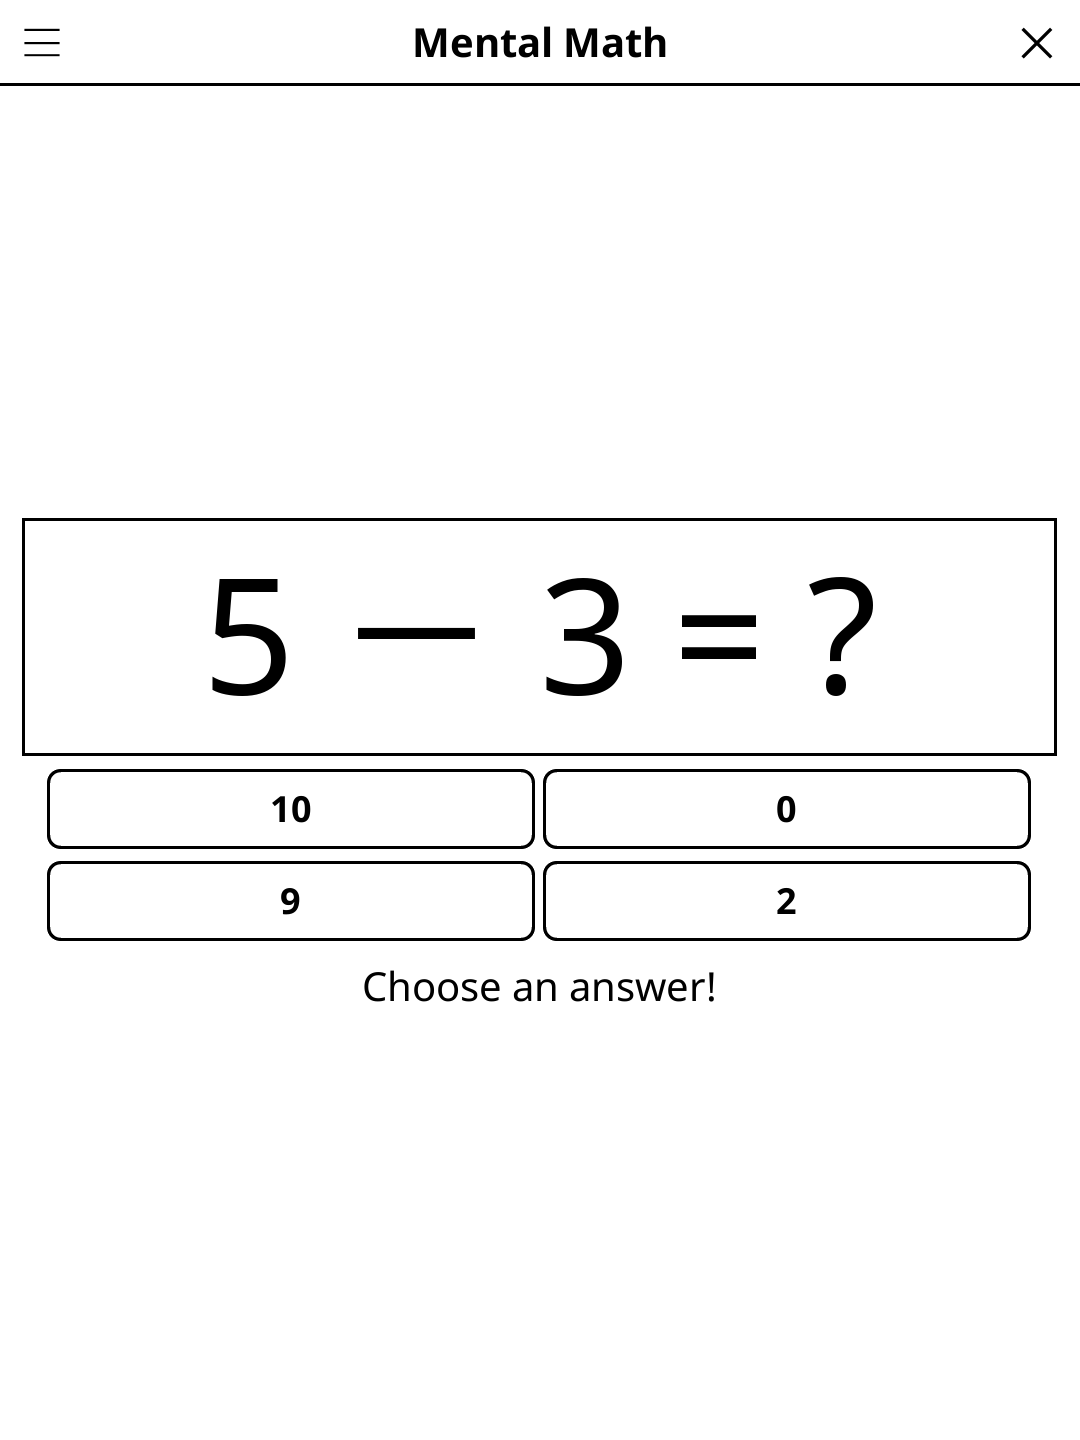
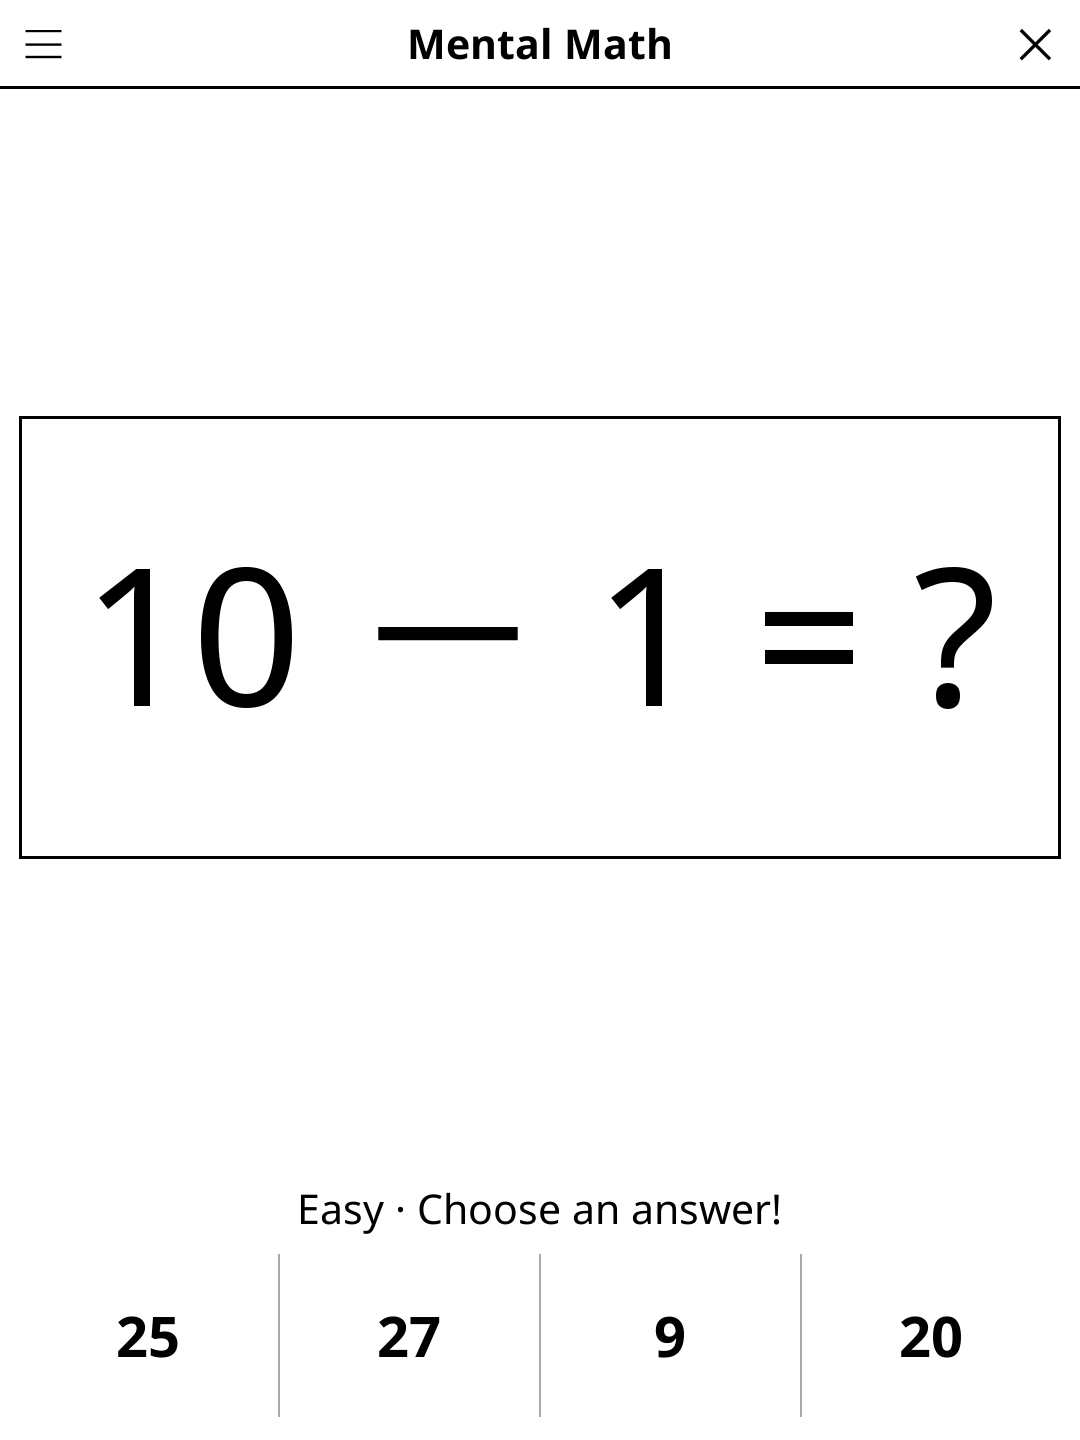
release: 1.2.0 -- redesigned screen, harmonised menu, New game at round end
Screen redesign (full-width action bar, unified pad, status line, larger
board), harmonised title-bar menu, and a "New game" button once the round
is over. See CHANGELOG.md.

diff --git a/CHANGELOG.md b/CHANGELOG.md
@@ -6,6 +6,24 @@ Reconstructed from this repository's git history: each release lists the
 feature and fix commits it carried. Version bumps, screenshot additions
 and CI syncs are left out.
 
+## [1.2.0] - 2026-10-30
+
+### Changed
+- Redesigned play screen, in line with the other games: the question box
+  fills the available room, and the four answers are one full-width pad
+  with large bold numbers that are easy to read and hit. The status line
+  reads "difficulty · Correct: n/m (p%) · Streak: n · ✓" and wraps in
+  landscape instead of being cut off.
+- Title-bar menu in the same order as every other game, with the current
+  value shown: New game (was "New") and "Difficulty: Easy" (was a bare
+  "Easy").
+- New README screenshot.
+
+### Fixed
+- Long questions ran off both sides of the question box, and the question
+  was oversized on high-DPI screens: its size was set in pixels and then
+  scaled again by the screen DPI. It is now fitted to the box and centred.
+
 ## [1.1.15] - 2026-10-01
 
 ### Fixed

diff --git a/README.md b/README.md
@@ -29,8 +29,8 @@ Solve arithmetic equations as quickly as possible. Each exercise shows a missing
 | Action | How |
 |--------|-----|
 | Select an answer | Tap the answer button |
-| Change difficulty | Tap **Diff** |
-| New exercise | Tap **New** |
+| Change difficulty | Tap **Difficulty** in the menu |
+| New exercise | Tap **New game** in the menu |
 | Show rules | Tap **Rules** |
 
 ## License
